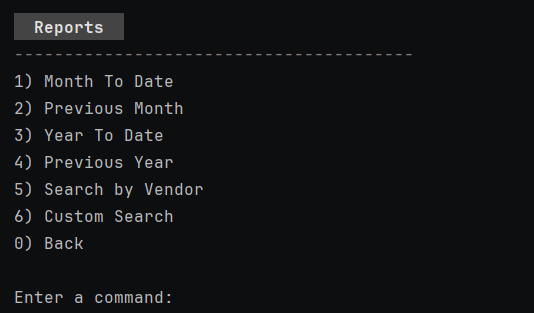
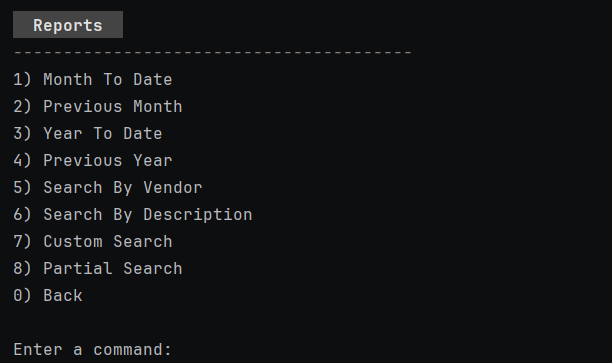
- Add Parcel Search - Add searchByDescription

diff --git a/README.md b/README.md
@@ -16,6 +16,8 @@ Transactions are saved in transactions.csv, and you can look at them in a ledger
 - Long lists show 20 at a time, with Enter for more or Q to stop
 - Color: deposits show in green and payments in red (set `USE_COLOR` to `false` in `App.java` to turn it off)
 - Every screen has a title badge, and every list has gray dividers
+- - Search by Description: type part of a description and see every match
+- Partial Search: type part of a word and see every transaction whose description or vendor contains it
 
 ### How to Run It
 1. Clone the repository and open it in IntelliJ
@@ -96,8 +98,10 @@ Transactions are saved in transactions.csv, and you can look at them in a ledger
             System.out.println("2) Previous Month");
             System.out.println("3) Year To Date");
             System.out.println("4) Previous Year");
-            System.out.println("5) Search by Vendor");
-            System.out.println("6) Custom Search");
+            System.out.println("5) Search By Vendor");
+            System.out.println("6) Search By Description");
+            System.out.println("7) Custom Search");
+            System.out.println("8) Partial Search");
             System.out.println("0) Back");
             System.out.println();
             System.out.print("Enter a command: ");
@@ -109,7 +113,9 @@ Transactions are saved in transactions.csv, and you can look at them in a ledger
                 case "3" -> displayYearToDate();
                 case "4" -> displayPreviousYear();
                 case "5" -> searchByVendor();
-                case "6" -> customSearch();
+                case "6" -> searchByDescription();
+                case "7" -> customSearch();
+                case "8" -> partialSearch();
                 case "0" -> System.out.println("Back to Ledger");
                 default -> System.out.println("That isn't a command. Try again.");
             }
